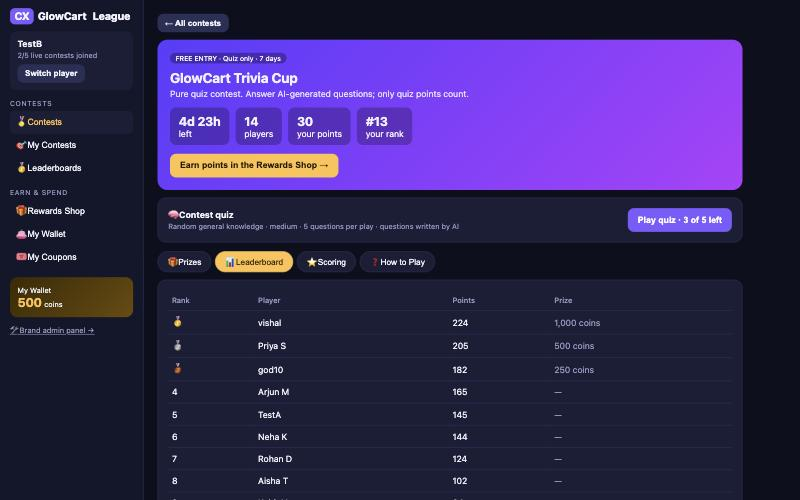
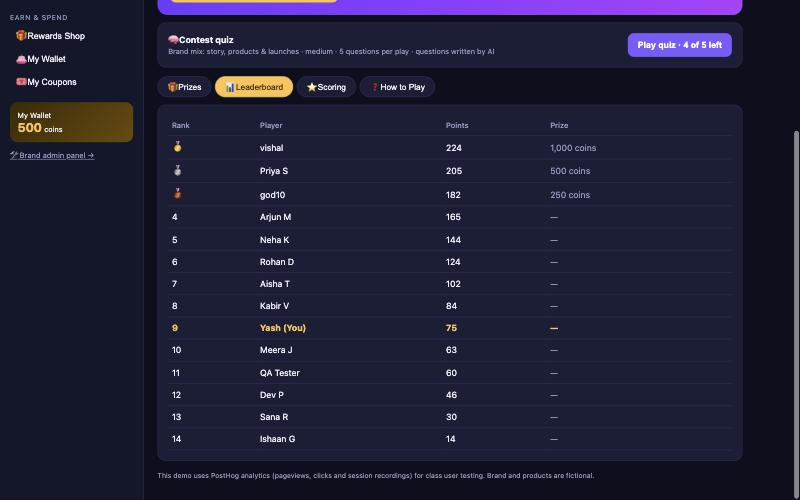
Brand-only AI quiz, v2 screenshots and demo steps in PRD
Quiz topics are now brand story, products and best-sellers, launches and offers, or a mix, generated only from a brand profile plus the catalog with live sales and ratings. Measured $0.0015 per quiz on Haiku 5.5. PRD v2 gains 10 screenshots and how-to-demo steps.

diff --git a/docs/index.html b/docs/index.html
@@ -61,7 +61,7 @@ footer{margin-top:60px;color:var(--mut);font-size:13px;border-top:1px solid var(
 <tr><td>Joining contests</td><td>No limit</td><td>Up to <b>5 live contests</b> at once</td></tr>
 <tr><td>Point rules</td><td>Same values everywhere</td><td>Each contest picks which actions score and how much (a quiz-only contest ignores reviews)</td></tr>
 <tr><td>Earning</td><td>Dropdown on the Products page</td><td><b>Rewards Shop → Earn</b> tab: review, photo, rating, referral, purchase. One action credits every joined contest that scores it.</td></tr>
-<tr><td>Games</td><td>None</td><td><b>AI quiz</b>: 5 questions per play written by Claude, up to 5 plays per contest, no repeated questions</td></tr>
+<tr><td>Games</td><td>None</td><td><b>AI brand quiz</b>: 5 questions per play written by Claude, always about the brand (story, founders, best-sellers, products, upcoming collections, offers), up to 5 plays per contest, no repeated questions</td></tr>
 <tr><td>Contest page</td><td>Prizes and standings</td><td>Tabs: <b>Prizes, Leaderboard, Scoring, How to Play</b>, plus the quiz card</td></tr>
 <tr><td>Leaderboards</td><td>Per contest</td><td>Per contest, plus <b>general leaderboards</b>: most points, quiz plays and coins won; most-reviewed and top-rated products</td></tr>
 <tr><td>Brand side</td><td>Non-goal</td><td><b>Admin panel sketch</b>: analytics, launch/edit contests, quiz topic and difficulty, plays allowed, prizes, Rewards Shop items, AI cost (full version in Build 3)</td></tr>
@@ -103,9 +103,9 @@ footer{margin-top:60px;color:var(--mut);font-size:13px;border-top:1px solid var(
 <div class="card">
  <ol style="margin-top:0">
   <li><b>Player app</b> (<code>app/index.html</code>) and <b>brand admin</b> (<code>app/admin.html</code>) run in the browser and talk to one local server, <code>server.js</code>.</li>
-  <li>When the player presses <i>Play quiz</i>, the server checks they joined, the contest is live and plays are left, then reads the contest's quiz settings: topic (GlowCart products / e-commerce / electronics / random), difficulty (easy / medium / hard / mixed) and number of questions.</li>
+  <li>When the player presses <i>Play quiz</i>, the server checks they joined, the contest is live and plays are left, then reads the contest's quiz settings: topic (brand mix / brand story &amp; facts / products &amp; best-sellers / new launches, collections &amp; offers), difficulty (easy / medium / hard / mixed) and number of questions.</li>
   <li>The server calls the <b>Claude API</b> (model <code>claude-haiku-5-5</code>, set in <code>.env</code>) with <b>structured outputs</b>, so the reply is always valid JSON: question, 4 options, correct answer and explanation.
-   <ul><li>For brand quizzes Claude gets only the product catalog, so it can't invent product facts.</li>
+   <ul><li>Every quiz is about the brand: Claude gets only the <b>brand profile</b> (founding year and city, founders, how it started, best-seller, signature ingredient, upcoming collections and dates, offers, shipping and returns) and the <b>product catalog with live sales and ratings</b>, and is told never to ask general-knowledge questions or invent facts.</li>
    <li>It also gets the questions this player has already seen, and the server drops any duplicate.</li></ul></li>
   <li>The server shuffles the options, <b>keeps the answer key</b> (the browser never sees it), and returns the questions. Each answer is checked on the server; at the end, points are added to that contest only.</li>
   <li>Contests, players, points, coins and shop items live in <code>data/db.json</code>. Every AI call is logged with tokens, cost and time; the admin page and <code>npm run usage</code> report them.</li>
@@ -118,11 +118,11 @@ footer{margin-top:60px;color:var(--mut);font-size:13px;border-top:1px solid var(
 <table>
 <tr><th></th><th>Claude Haiku 5.5 (current)</th><th>Claude Opus 5.5 (option)</th></tr>
 <tr><td>Price per million tokens (in / out)</td><td>$0.10 / $0.50</td><td>$4 / $20</td></tr>
-<tr><td>One quiz (5 questions; measured ~930 tokens in, ~1,960 out incl. reasoning)</td><td><b>$0.0011</b> (measured)</td><td>≈ $0.043 (estimated)</td></tr>
-<tr><td>One player, 5 plays in a contest</td><td>≈ $0.0055</td><td>≈ $0.21</td></tr>
-<tr><td>1,000 players × 5 plays</td><td>≈ $5.40</td><td>≈ $215</td></tr>
+<tr><td>One brand quiz (5 questions; measured ~2,300 tokens in incl. the brand brief, ~2,550 out incl. reasoning)</td><td><b>$0.0015</b> (measured)</td><td>≈ $0.06 (estimated)</td></tr>
+<tr><td>One player, 5 plays in a contest</td><td>≈ $0.0075</td><td>≈ $0.30</td></tr>
+<tr><td>1,000 players × 5 plays</td><td>≈ $7.50</td><td>≈ $300</td></tr>
 </table>
-<p id="measured-cost"><b>Measured in Build 2 testing (Nov 15):</b> 8 real quizzes on Claude Haiku 5.5 averaged <b>$0.0011 per quiz</b> (934 tokens in / 1,960 out) and <b>9.1 s</b> to generate; all testing cost <b>$0.0086</b> in total. 0 failed calls; 0 repeated questions across one player's 25 questions (5 plays); every answer key I checked was correct, including a brand quiz where all 5 hard questions matched the product catalog. Hosting is $0 (GitHub Pages; the app runs locally) and PostHog is on the free tier. Haiku keeps the AI cost far below the coin prize budget; Build 4 will compare Haiku and Opus on question accuracy before deciding whether Opus is worth ~40× the cost.</p>
+<p id="measured-cost"><b>Measured in Build 2 testing (Nov 15):</b> the brand-only quiz on Claude Haiku 5.5 averaged <b>$0.0015 per quiz</b> and <b>10.6 s</b> to generate (6 quizzes). One player's 5 plays produced <b>25 questions, all about GlowCart, 0 repeats</b>, and every answer matched the brand profile. All AI testing this week (14 quizzes, including an earlier general-knowledge version I replaced) cost <b>$0.018</b>. 0 failed calls. Hosting is $0 (GitHub Pages; the app runs locally) and PostHog is on the free tier. Haiku keeps the AI cost far below the coin prize budget; Build 4 will compare Haiku and Opus on question accuracy before deciding whether Opus is worth ~40× the cost.</p>
 
 <h3>Non-goals (v2)</h3>
 <ol>
@@ -141,9 +141,27 @@ footer{margin-top:60px;color:var(--mut);font-size:13px;border-top:1px solid var(
 cd yg1821-gamifiedecomm &amp;&amp; npm install
 cp .env.example .env    # add ANTHROPIC_API_KEY
 npm start               # player app: localhost:3000 · brand admin: localhost:3000/admin</pre>
+<h3>How to open and check it</h3>
+<ol>
+ <li>Open Terminal in the project folder and run <code>npm start</code> (first time: <code>npm install</code>, and put your <code>ANTHROPIC_API_KEY</code> in <code>.env</code>).</li>
+ <li>Player app: <b>http://localhost:3000</b>. Brand admin sketch: <b>http://localhost:3000/admin</b>. Both work only on the laptop running the server.</li>
+ <li>Click <b>Register</b>, enter a name (you get 500 welcome coins), and join <b>GlowCart Trivia Cup</b> and <b>GlowCart Winter League</b>.</li>
+ <li>Open the Trivia Cup → check the <b>Prizes, Leaderboard, Scoring, How to Play</b> tabs → <b>Play quiz</b>. Answer 5 questions about GlowCart; see right/wrong and the explanation; finish to see points added and your new rank.</li>
+ <li>Play again (up to 5 times): every play has new questions. Press <b>Switch player</b> to play as a second person and watch the leaderboard change.</li>
+ <li><b>Rewards Shop → Earn</b>: rate or review a product and see points added to each joined contest that scores it. <b>Redeem</b> spends coins.</li>
+ <li>Open <b>/admin</b> to show the brand view: players, quiz plays, points awarded, the brand profile the quiz uses, and AI cost per quiz.</li>
+</ol>
 <div class="gallery" id="app2-shots">
- <figure><img class="shot" src="img/quiz-question.jpg" alt="AI quiz question with the correct answer highlighted and an explanation"><figcaption>AI quiz: Claude-written question, answer checked by the server, one-line explanation (play 2 of 5)</figcaption></figure>
- <figure><img class="shot" src="img/quiz-leaderboard.jpg" alt="Contest leaderboard after quiz plays"><figcaption>Leaderboard moves after each play: player 1 climbed from #13 to #5 across 5 plays</figcaption></figure>
+ <figure><img class="shot" src="img/v2-contests.jpg" alt="Contest lobby with four live contests"><figcaption>Contests: join up to 5 live contests; each shows its quiz topic and top prize</figcaption></figure>
+ <figure><img class="shot" src="img/v2-contest-scoring.jpg" alt="Contest page with tabs and quiz card"><figcaption>Contest page: Prizes, Leaderboard, Scoring and How to Play tabs plus the quiz card (5 plays)</figcaption></figure>
+ <figure><img class="shot" src="img/quiz-question.jpg" alt="Brand quiz question about GlowCart's best-selling product"><figcaption>AI quiz about the brand: answer checked on the server, with a one-line explanation</figcaption></figure>
+ <figure><img class="shot" src="img/v2-quiz-result.jpg" alt="Quiz result: perfect score, +75 points"><figcaption>Result: 5/5 → +75 points, added to this contest only; 4 plays left</figcaption></figure>
+ <figure><img class="shot" src="img/quiz-leaderboard.jpg" alt="Contest leaderboard with the player highlighted at rank 9"><figcaption>Leaderboard moves: one perfect quiz took the player from #14 to #9</figcaption></figure>
+ <figure><img class="shot" src="img/v2-shop-earn.jpg" alt="Rewards Shop Earn tab"><figcaption>Rewards Shop → Earn: each action shows how many points and how many joined contests it counts in</figcaption></figure>
+ <figure><img class="shot" src="img/v2-leaderboards.jpg" alt="General leaderboards"><figcaption>General leaderboards: players by points and quiz plays; products by reviews and rating</figcaption></figure>
+ <figure><img class="shot" src="img/v2-admin-overview.jpg" alt="Brand admin overview"><figcaption>Brand admin (sketch): players, joins, quiz plays, average score, points, coins, AI cost, live activity</figcaption></figure>
+ <figure><img class="shot" src="img/v2-admin-contest.jpg" alt="Admin contest editor"><figcaption>Admin: launch or edit a contest: which actions score, quiz topic, difficulty, questions, plays, prizes</figcaption></figure>
+ <figure><img class="shot" src="img/v2-admin-ai-cost.jpg" alt="Admin AI cost log"><figcaption>Admin: every AI call logged with tokens, cost and time ($0.0015 per quiz on Haiku 5.5)</figcaption></figure>
 </div>
 </section>
 
@@ -243,8 +261,8 @@ npm start               # player app: localhost:3000 · brand admin: localhost:3
 <tr><td>Build 2<br>Nov 14–15</td><td>
  <p><b>What works:</b> a local app (Node server + Claude API) with an <b>AI-written quiz</b> in each contest: 5 questions per play, up to 5 plays, no repeated questions, answers checked on the server, points added to that contest's leaderboard. Points are now per contest and coins are the wallet (prizes and Rewards Shop). Players can join up to 5 contests; the Rewards Shop Earn tab credits every joined contest that scores an action. The contest page has Prizes, Leaderboard, Scoring and How to Play tabs; general leaderboards; a brand admin sketch (analytics, launch/edit contests, quiz settings, shop items, AI cost). PostHog runs on the Product Page, prototype and app with session replay and custom quiz events. AGENTS.md documents structure and run steps; BACKLOG.md tracks what's pending.</p>
  <p><b>What I learned:</b> structured outputs make the AI reply dependable: the server always gets question, options, answer and explanation as JSON, so the quiz never breaks on a badly formatted reply. Keeping the answer key on the server matters as soon as a leaderboard has prizes. Giving the model only the brand catalog keeps brand questions factual, and starting with the cheapest model (Haiku 5.5) with the model name in <code>.env</code> makes switching to Opus a one-line change once evals show it's needed.</p>
- <p><b>What broke / changed:</b> I first planned an AI review checker, then switched to the brand quiz because it tests engagement, the risk brands care about. Mid-build the points model changed: points per contest, coins only as prizes, which meant moving data to a small server so the admin and player pages share it. The prototype file came read-only from the zip; Python's local server couldn't read the Desktop folder (switched to Node); session replay looked off on localhost because the browser cached PostHog's settings for 5 minutes.</p>
- <p><b>Costs:</b> Claude API for quiz generation: <b>$0.0086</b> for 8 test quizzes (Claude Haiku 5.5, $0.0011 per quiz, 9.1 s average). Agent usage covered by my Claude Pro subscription ($20/month). PostHog free tier; GitHub Pages free.</p>
+ <p><b>What broke / changed:</b> I first planned an AI review checker, then switched to the brand quiz because it tests engagement, the risk brands care about. The first quiz version asked general-knowledge questions; I made every quiz brand-only by giving the AI a brand profile (founding, founders, best-seller, upcoming collections, offers) and banning general trivia. Mid-build the points model changed: points per contest, coins only as prizes, which meant moving data to a small server so the admin and player pages share it. The prototype file came read-only from the zip; Python's local server couldn't read the Desktop folder (switched to Node); session replay looked off on localhost because the browser cached PostHog's settings for 5 minutes.</p>
+ <p><b>Costs:</b> Claude API for quiz generation: <b>$0.018</b> for 14 test quizzes (Claude Haiku 5.5; $0.0015 per brand quiz, 10.6 s average). Agent usage covered by my Claude Pro subscription ($20/month). PostHog free tier; GitHub Pages free.</p>
  <p><b>Hours:</b> <span class="fill">add Build 2 hours</span>.</p>
 </td></tr>
 <tr><td>Build 1<br>Nov 7–8</td><td>

diff --git a/server.js b/server.js
@@ -40,12 +40,43 @@ const ACTIONS = {
   quiz_perfect: "Quiz: perfect-score bonus",
 };
 
+// Every quiz is about the contest's brand: never general knowledge. Facts come only from the brand profile + catalog.
 const TOPICS = {
-  brand: "Brand: GlowCart products",
-  ecommerce: "E-commerce & online shopping",
-  electronics: "Consumer electronics",
-  random: "Random general knowledge",
+  brand_mix: "Brand mix: story, products & launches",
+  brand_story: "Brand story & facts",
+  brand_products: "Products & best-sellers",
+  brand_launches: "New launches, collections & offers",
 };
+const DEFAULT_TOPIC = "brand_mix";
+
+// Brand profile the admin will edit in Build 3 (fictional demo brand).
+function seedBrand() {
+  return {
+    name: "GlowCart",
+    industry: "D2C beauty & lifestyle e-commerce (India)",
+    facts: [
+      "GlowCart was founded in 2019 in Mumbai, India.",
+      "Founders: Ananya Rao and Kabir Mehta.",
+      "GlowCart started as an Instagram shop selling one product: the Rose Hand Balm.",
+      "GlowCart launched its own website (D2C store) in 2020.",
+      "Brand promise: clean, fragrance-light beauty made for Indian weather.",
+      "Best-selling product of all time: Rose Hand Balm.",
+      "Signature ingredient used across the range: rosehip oil.",
+      "GlowCart passed 120,000 customers in 2026.",
+      "First offline pop-up store: Bandra, Mumbai, opened in 2024.",
+      "All GlowCart products are cruelty-free.",
+      "Refill pouches for the Rose Hand Balm have been sold since 2022.",
+      "Next collection: the Spring Bloom collection launches on 1 March 2027.",
+      "Spring Bloom collection items: a peach-shade lip tint, an SPF 50 gel sunscreen and a linen tote bag.",
+      "VIP Insiders Cup winners get the Spring Bloom collection before everyone else.",
+      "Coming after Spring Bloom: a Monsoon Repair hair serum, planned for June 2027.",
+      "Coupon code GLOWLEAGUE gives 10% off for GlowCart League players.",
+      "Free shipping on orders above ₹999.",
+      "Delivery across India takes 2–5 days.",
+      "Returns: 15 days on unopened products.",
+    ],
+  };
+}
 const DIFFICULTIES = ["easy", "medium", "hard", "mixed"];
 
 // ---------- Seed data (fictional brand) ----------
@@ -57,7 +88,7 @@ function seed() {
      ["Aisha T", 290], ["Kabir V", 240], ["Meera J", 180], ["Dev P", 130], ["Sana R", 85], ["Ishaan G", 40]]
       .map(([name, pts]) => ({ name, points: Math.round(pts * scale), seeded: true }));
   return {
-    brand: { name: "GlowCart", category: "Beauty & lifestyle" },
+    brand: seedBrand(),
     products: [
       { id: "p1", name: "Winter Glow Serum", emoji: "🧴", price: 1299, category: "Skincare", details: "30 ml vitamin C and hyaluronic acid serum for dull winter skin; use 2–3 drops every morning before moisturiser; suitable for all skin types; fragrance-free." },
       { id: "p2", name: "Velvet Lip Tint", emoji: "💄", price: 599, category: "Makeup", details: "Matte-finish lip tint in 6 shades; infused with shea butter; lasts up to 8 hours; vegan and cruelty-free." },
@@ -90,16 +121,16 @@ function seed() {
         entry: { type: "free", fee: 0 },
         prizes: [{ upTo: 1, coins: 1000, note: "+ Winter Hamper" }, { upTo: 2, coins: 600 }, { upTo: 3, coins: 400 }, { upTo: 10, coins: 150 }],
         scoring: { review: 10, photo: 15, rating: 3, referral: 20, purchase: 30, quiz_correct: 10, quiz_perfect: 25 },
-        quiz: { enabled: true, topic: "brand", difficulty: "mixed", questions: 5, maxPlays: 5 },
+        quiz: { enabled: true, topic: "brand_mix", difficulty: "mixed", questions: 5, maxPlays: 5 },
         seedPlayers: rivals(1),
       },
       {
         id: "trivia", name: "GlowCart Trivia Cup", tag: "FREE ENTRY · Quiz only · 7 days", status: "live", endsAt: now + 5 * day,
-        desc: "Pure quiz contest. Answer AI-generated questions; only quiz points count.",
+        desc: "How well do you know GlowCart? Answer AI-written questions about the brand, its best-sellers and new launches; only quiz points count.",
         entry: { type: "free", fee: 0 },
         prizes: [{ upTo: 1, coins: 1000 }, { upTo: 2, coins: 500 }, { upTo: 3, coins: 250 }],
         scoring: { review: 0, photo: 0, rating: 0, referral: 0, purchase: 0, quiz_correct: 10, quiz_perfect: 25 },
-        quiz: { enabled: true, topic: "random", difficulty: "medium", questions: 5, maxPlays: 5 },
+        quiz: { enabled: true, topic: "brand_mix", difficulty: "medium", questions: 5, maxPlays: 5 },
         seedPlayers: rivals(0.35),
       },
       {
@@ -108,7 +139,7 @@ function seed() {
         entry: { type: "coins", fee: 50 },
         prizes: [{ upTo: 1, coins: 2500 }, { upTo: 2, coins: 1500 }, { upTo: 3, coins: 1000 }, { upTo: 10, coins: 300 }],
         scoring: { review: 15, photo: 20, rating: 5, referral: 0, purchase: 40, quiz_correct: 0, quiz_perfect: 0 },
-        quiz: { enabled: false, topic: "ecommerce", difficulty: "easy", questions: 5, maxPlays: 5 },
+        quiz: { enabled: false, topic: "brand_launches", difficulty: "easy", questions: 5, maxPlays: 5 },
         seedPlayers: rivals(0.4),
       },
       {
@@ -117,7 +148,7 @@ function seed() {
         entry: { type: "pass", fee: 0 },
         prizes: [{ upTo: 1, coins: 3000, note: "+ Full Spring collection" }, { upTo: 2, coins: 1500 }, { upTo: 3, coins: 1000 }],
         scoring: { review: 10, photo: 15, rating: 3, referral: 20, purchase: 30, quiz_correct: 15, quiz_perfect: 40 },
-        quiz: { enabled: true, topic: "brand", difficulty: "hard", questions: 5, maxPlays: 3 },
+        quiz: { enabled: true, topic: "brand_products", difficulty: "hard", questions: 5, maxPlays: 3 },
         seedPlayers: rivals(0.7),
       },
     ],
@@ -131,7 +162,11 @@ function seed() {
 let db;
 function load() {
   try { db = JSON.parse(fs.readFileSync(DB_FILE, "utf8")); }
-  catch { db = seed(); save(); }
+  catch { db = seed(); save(); return; }
+  // Upgrade older demo data: brand profile + brand-only quiz topics.
+  if (!Array.isArray(db.brand?.facts)) db.brand = seedBrand();
+  for (const c of db.contests) if (!TOPICS[c.quiz.topic]) c.quiz.topic = DEFAULT_TOPIC;
+  save();
 }
 function save() {
   fs.mkdirSync(DATA_DIR, { recursive: true });
@@ -200,12 +235,20 @@ const QuizSchema = z.object({
   })),
 });
 
-const TOPIC_RULES = {
-  brand: (cat) => `Topic: the brand GlowCart and its products. Use ONLY facts stated in this product catalog. Never invent ingredients, sizes, prices, shades or claims that are not in it.\nCatalog (JSON):\n${JSON.stringify(cat)}`,
-  ecommerce: () => "Topic: e-commerce and online shopping in general (payments, delivery, returns, coupons, marketplaces, online-shopping history and well-known terms). Only use facts that are widely established and not likely to change.",
-  electronics: () => "Topic: consumer electronics (phones, laptops, audio, chargers, displays, common specs and terms). Only use facts that are widely established and not likely to change; avoid current prices and model launch rumours.",
-  random: () => "Topic: a random mix of family-friendly general knowledge (science, geography, food, sport, pop culture). Only use well-established facts.",
+const TOPIC_FOCUS = {
+  brand_mix: "Mix the questions across the brand's story, its products and best-sellers, and its upcoming launches and offers.",
+  brand_story: "Focus on the brand's story and facts: founding year and city, founders, how it started, its promise, milestones, stores and values.",
+  brand_products: "Focus on the brand's products: what they contain, how to use them, sizes, shades, prices, ratings and which products sell best.",
+  brand_launches: "Focus on what's new and next: upcoming collections and launch dates, what's in them, who gets early access, plus current offers, shipping and returns.",
 };
+// Everything the model may use: brand profile + live catalog stats (so "best-seller" and "top-rated" questions match the shop).
+function brandBrief() {
+  const products = db.products.map((p) => {
+    const s = db.productStats[p.id];
+    return { name: p.name, category: p.category, price_inr: p.price, details: p.details, purchases: s.purchases, reviews: s.reviews, avg_rating: Math.round(avg(s.ratings) * 10) / 10 };
+  });
+  return { brand: db.brand.name, industry: db.brand.industry, facts: db.brand.facts, products };
+}
 const DIFFICULTY_RULES = {
   easy: "All questions easy: most shoppers would know the answer.",
   medium: "All questions medium: needs some knowledge or careful reading.",
@@ -223,12 +266,15 @@ function claude() {
 async function generateQuiz({ topic, difficulty, count, avoid = [], contestId = null, purpose = "play" }) {
   const anthropic = claude();
   const system = [
-    "You write multiple-choice quiz questions for a shopping-rewards contest app. Players earn contest points for correct answers, so every question must be accurate and fair.",
+    `You write multiple-choice quiz questions for ${db.brand.name}'s shopping-rewards contest. The quiz exists so shoppers get to know the brand: every question must be about ${db.brand.name} itself (its story, people, products, best-sellers, launches, collections, offers or policies). Never ask general-knowledge or industry trivia that isn't about this brand.`,
+    "Use ONLY facts stated in the brand brief you are given. Never invent dates, names, ingredients, prices, shades, launches or claims. Players earn contest points for correct answers, so every question must be accurate and fair.",
+    "Wrong options must be plausible but clearly false according to the brief (e.g. another product's ingredient, a different year).",
     "Rules: exactly 4 answer options per question, exactly one correct; no 'all/none of the above'; no trick wording; keep each question under 25 words and each option under 8 words; explanation is one short sentence (under 25 words) saying why the answer is right.",
     "Set each question's difficulty field honestly.",
   ].join("\n");
   const userMsg = [
-    TOPIC_RULES[topic](db.products.map(({ name, price, category, details }) => ({ name, price_inr: price, category, details }))),
+    `Brand brief (JSON):\n${JSON.stringify(brandBrief())}`,
+    TOPIC_FOCUS[topic] || TOPIC_FOCUS[DEFAULT_TOPIC],
     DIFFICULTY_RULES[difficulty],
     // Ask for 2 spares so we can drop any duplicates of questions this player has already seen.
     `Write exactly ${count + 2} questions, all different from each other.`,
@@ -511,7 +557,7 @@ Object.assign(routes, {
         recent: ai.slice(-10).reverse(),
       },
       recentEvents: ev.slice(-25).reverse().map((e) => ({ ...e, user: e.user ? db.users[e.user]?.name ?? e.user : undefined })),
-      topics: TOPICS, difficulties: DIFFICULTIES, actions: ACTIONS,
+      topics: TOPICS, difficulties: DIFFICULTIES, actions: ACTIONS, brand: db.brand,
     };
   },
 
@@ -520,7 +566,7 @@ Object.assign(routes, {
     const isNew = !b.id;
     const c = isNew ? null : contestById(b.id);
     const name = String(b.name || "").trim() || fail(400, "Contest needs a name");
-    const topic = TOPICS[b.quiz?.topic] ? b.quiz.topic : "brand";
+    const topic = TOPICS[b.quiz?.topic] ? b.quiz.topic : DEFAULT_TOPIC;
     const difficulty = DIFFICULTIES.includes(b.quiz?.difficulty) ? b.quiz.difficulty : "mixed";
     const entryType = ["free", "coins", "pass"].includes(b.entry?.type) ? b.entry.type : "free";
     const prizes = (Array.isArray(b.prizes) ? b.prizes : []).map((p) => ({ upTo: num(p.upTo, 1) || 1, coins: num(p.coins), note: String(p.note || "").slice(0, 60) }))
@@ -588,7 +634,7 @@ Object.assign(routes, {
 
   // Let the brand preview what the AI writes for a topic/difficulty before launching.
   "POST /api/admin/quiz-preview": async (_, b) => {
-    const topic = TOPICS[b.topic] ? b.topic : "brand";
+    const topic = TOPICS[b.topic] ? b.topic : DEFAULT_TOPIC;
     const difficulty = DIFFICULTIES.includes(b.difficulty) ? b.difficulty : "mixed";
     const questions = await generateQuiz({ topic, difficulty, count: Math.min(10, Math.max(3, num(b.questions, 5))), purpose: "admin_preview" });
     return { questions };

diff --git a/app/admin.html b/app/admin.html
@@ -44,7 +44,7 @@ fieldset{border:1px solid var(--line);border-radius:12px;padding:12px;margin:12p
   <button data-s="contests" onclick="go('contests')">🏅 Contests</button>
   <button data-s="shop" onclick="go('shop')">🎁 Rewards Shop</button>
   <button data-s="players" onclick="go('players')">👥 Players</button>
-  <button data-s="products" onclick="go('products')">🛍 Products</button>
+  <button data-s="products" onclick="go('products')">🛍 Brand & products</button>
   <button data-s="ai" onclick="go('ai')">🧠 AI quiz & cost</button>
  </div>
  <div class="side-foot"><a href="/">← Player app</a><br><br>Local demo: no admin login yet.<br><br><button class="btn danger" onclick="resetDemo()">Reset demo data</button></div>
@@ -76,8 +76,9 @@ fieldset{border:1px solid var(--line);border-radius:12px;padding:12px;margin:12p
 </section>
 
 <section class="screen" id="s-products">
- <h1>🛍 Products</h1><p class="mut">Catalog used by the Rewards Shop Earn tab and by brand quizzes.</p>
- <div class="card" id="producttable"></div>
+ <h1>🛍 Brand & products</h1><p class="mut">The AI quiz only uses this brand profile and catalog, so every question is about the brand. Editing comes in Build 3.</p>
+ <h2>Brand profile</h2><div class="card" id="brandfacts"></div>
+ <h2>Product catalog</h2><div class="card" id="producttable"></div>
 </section>
 
 <section class="screen" id="s-ai">
@@ -150,7 +151,8 @@ function render() {
   // Players
   $("playertable").innerHTML = O.users.length ? `<table><tr><th>Player</th><th>Coins</th><th>Contests</th><th>Points</th><th>Quiz plays</th><th>Quiz correct</th><th>Reviews</th><th>Ratings</th><th>Referrals</th><th>Purchases</th><th>Coins spent</th></tr>${O.users.map((u) => `<tr><td><b>${esc(u.name)}</b><br><small class="mut">joined ${ago(u.joinedAt)}</small></td><td class="price">${fmt(u.coins)}</td><td>${u.contests}</td><td>${fmt(u.pointsEarned)}</td><td>${u.quizPlays}</td><td>${u.quizCorrect}</td><td>${u.reviews}</td><td>${u.ratings}</td><td>${u.referrals}</td><td>${u.purchases}</td><td>${fmt(u.coinsSpent)}</td></tr>`).join("")}</table>` : '<p class="mut">No players yet.</p>';
 
-  // Products
+  // Brand profile + products
+  $("brandfacts").innerHTML = `<b>${esc(O.brand.name)}</b> <span class="pill">${esc(O.brand.industry)}</span><ul>${O.brand.facts.map((f) => `<li>${esc(f)}</li>`).join("")}</ul>`;
   $("producttable").innerHTML = `<table><tr><th>Product</th><th>Price</th><th>Reviews</th><th>Avg rating</th><th>Purchases</th><th>Details (used by brand quiz)</th></tr>${O.products.map((p) => `<tr><td>${p.emoji} <b>${esc(p.name)}</b><br><small class="mut">${esc(p.category)}</small></td><td>₹${fmt(p.price)}</td><td>${p.reviews}</td><td>${p.avgRating}★ (${p.ratingCount})</td><td>${p.purchases}</td><td><small class="mut">${esc(p.details)}</small></td></tr>`).join("")}</table>`;
 
   // AI
@@ -167,7 +169,7 @@ function render() {
 
 // ---------- Contest form ----------
 function editContest(id) {
-  const c = id ? O.contests.find((x) => x.id === id) : { name: "", desc: "", entry: { type: "free", fee: 0 }, scoring: { review: 10, photo: 15, rating: 3, referral: 20, purchase: 30, quiz_correct: 10, quiz_perfect: 25 }, quiz: { enabled: true, topic: "brand", difficulty: "mixed", questions: 5, maxPlays: 5 }, prizes: [{ upTo: 1, coins: 1000, note: "" }, { upTo: 2, coins: 500, note: "" }, { upTo: 3, coins: 250, note: "" }] };
+  const c = id ? O.contests.find((x) => x.id === id) : { name: "", desc: "", entry: { type: "free", fee: 0 }, scoring: { review: 10, photo: 15, rating: 3, referral: 20, purchase: 30, quiz_correct: 10, quiz_perfect: 25 }, quiz: { enabled: true, topic: "brand_mix", difficulty: "mixed", questions: 5, maxPlays: 5 }, prizes: [{ upTo: 1, coins: 1000, note: "" }, { upTo: 2, coins: 500, note: "" }, { upTo: 3, coins: 250, note: "" }] };
   editingContest = JSON.parse(JSON.stringify(c)); render(); window.scrollTo(0, 0);
 }
 function contestForm(c) {

diff --git a/journal/build-02-plan.md b/journal/build-02-plan.md
@@ -43,9 +43,9 @@ Working log for Build 2. The required build log is on `docs/index.html`; this fi
 
 ## 5. What it cost
 - **Agent spend:** $0 extra; Claude Code is covered by Claude Pro ($20/month).
-- **API runtime spend (quiz generation):** $0.0086 for 8 test quizzes (Nov 15), from `npm run usage`.
-- **Cost per quiz (5 questions):** $0.0011 measured on Claude Haiku 5.5; 9.1 s average generation time; 0 failed calls.
-- **Tokens per quiz:** 934 in / 1,960 out on average (output includes the model's reasoning and 2 spare questions used to drop repeats).
+- **API runtime spend (quiz generation):** $0.018 for 14 test quizzes (Nov 15): $0.0086 for 8 general-knowledge quizzes (first version) + $0.0089 for 6 brand-only quizzes.
+- **Cost per quiz (5 questions):** $0.0015 per brand quiz on Claude Haiku 5.5 (was $0.0011 before the brand brief was added); 10.6 s average generation time; 0 failed calls.
+- **Tokens per quiz:** about 2,300 in (the brand brief) / 2,550 out on average (output includes the model's reasoning and 2 spare questions used to drop repeats).
 - **Hosting:** $0 (GitHub Pages free; app runs locally).
 - **Your hours spent this week:** `___ hrs`
 - **Cumulative project spend to date:** `$___`
@@ -57,6 +57,8 @@ Working log for Build 2. The required build log is on `docs/index.html`; this fi
 - Leaderboard: player 1 moved #9 → #8 → #7 → #6 → #5; player 2 listed separately with their own points.
 - Brand quiz (VIP, hard): all 5 questions matched the GlowCart catalog; no invented facts.
 - Earn actions: points credited only to joined contests that score the action (quiz-only contest ignored reviews).
+- Brand-only quiz (after the change): 5 plays → 25 questions, all about GlowCart (founders, founding, Instagram start, best-seller, Spring Bloom launch, Monsoon Repair serum, coupon, shipping, returns, product details), 0 repeats, every answer matches the brand profile.
+- Change requested: questions must be brand-specific, not general knowledge. Replaced the random, e-commerce and electronics topics with 4 brand topics and a brand profile.
 - Small fix found while testing: points and plays behind the quiz results popup now update immediately.
 
 ## 6. Pod Critique Sign-off

diff --git a/BACKLOG.md b/BACKLOG.md
@@ -8,6 +8,7 @@ What Build 2 deliberately left out, so the next builds stay small and reviewable
 - [ ] **Multi-brand (vendor) support**: each brand gets its own catalog, contests and shop; today there is one brand (GlowCart).
 - [ ] **Contest scheduling**: start and end dates, auto-end with automatic prize payout (today: manual "End & pay").
 - [ ] **Brand product catalog editor**: add or edit products and details used by the brand quiz (today: seeded in `server.js`).
+- [ ] **Brand profile editor**: brand admins write their own facts (founding, founders, best-sellers, next collection dates, offers) that the quiz uses; warn when a fact is out of date (e.g. a launch date has passed).
 - [ ] **Admin quiz review**: approve, edit or ban AI questions before they go live; flag reported questions.
 - [ ] **Analytics charts**: daily active players, quiz funnel, retention, per-contest trends (PostHog dashboards plus in-app charts).
 

diff --git a/AGENTS.md b/AGENTS.md
@@ -33,6 +33,7 @@
 - A player can be in at most `MAX_ACTIVE_CONTESTS` (5) live contests. An Earn action credits every joined live contest whose `scoring[action] > 0`.
 - Quiz points go only to the contest the quiz was played in. A play is used only when questions were generated successfully.
 - The quiz answer key stays on the server; never send `correct` indexes to the browser before the player answers.
+- **Every quiz question is about the contest's brand** (story, founders, products, best-sellers, launches, offers, policies). The AI may only use facts in `db.brand.facts` and the product catalog (`brandBrief()` in `server.js`); never add general-knowledge topics.
 - Every AI call is logged in `db.aiUsage` with tokens, cost and time; keep that when changing the AI code.
 - Model is set by `ANTHROPIC_MODEL` in `.env` (default `claude-haiku-5-5`); never hardcode keys.
 
